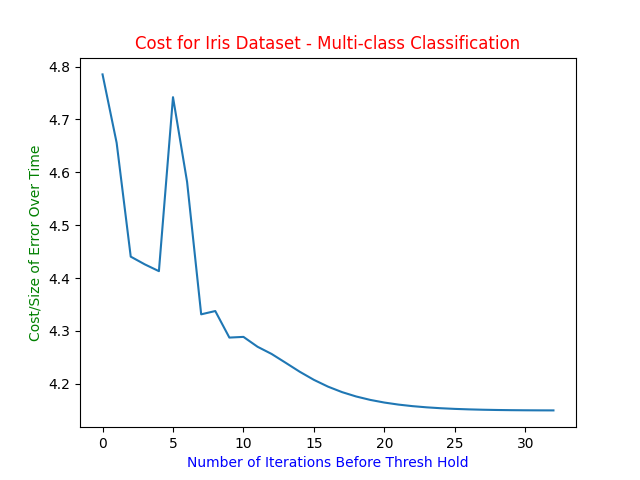
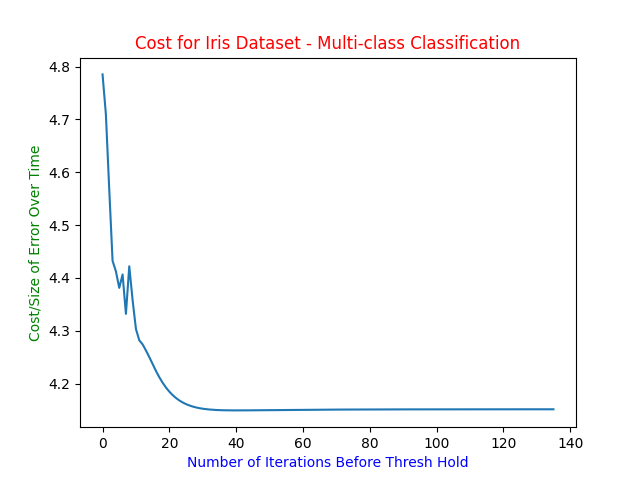
Reformatting

diff --git a/MyFiles/NeuralNetwork.py b/MyFiles/NeuralNetwork.py
@@ -225,7 +225,8 @@ def forward_propagation_multi_class(x, parameters_tuple):
 # prediction value and the actual value (multi-class classification).
 def cost_function_vector_multi_class(forward_prop, true_labels):
     n = true_labels.shape[1]
-    log_holder_predictions = number_array.log(forward_prop["R2Activated"])
+    numeric_stability = 1e-8
+    log_holder_predictions = number_array.log(forward_prop["R2Activated"] + numeric_stability)
     cost = log_holder_predictions * true_labels
     total_cost = -(1/n) * number_array.sum(cost)
     return total_cost
@@ -279,7 +280,7 @@ def plot_save_multi_class_classification_iris_dataset(exp_forward_values, y_test
     plt.xlabel("Data Test Samples", color = "blue")
     plt.ylabel("Output Values", color = "blue")
     plt.title("Actual vs. Predicted Values\n Iris Dataset - Multi-class Classification", color = "blue")
-    plt.legend(loc)
+    plt.legend(loc='center left', bbox_to_anchor = (1, 0.5))
     plt.savefig("[Iris Dataset - Multi-class] Actual vs. Predicted values.png")
     plt.show()
 